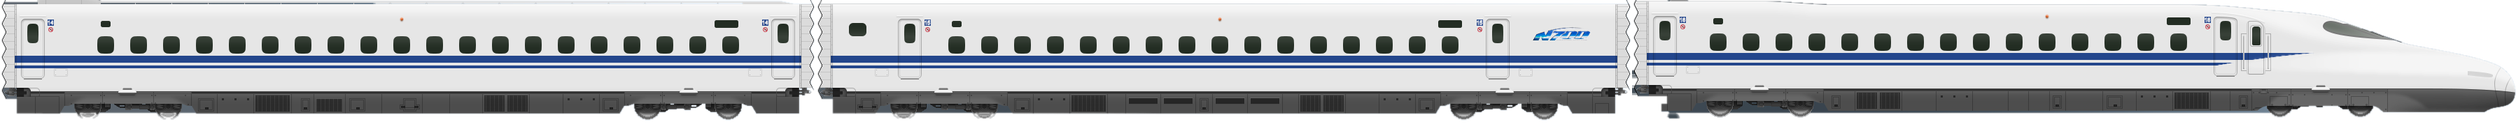
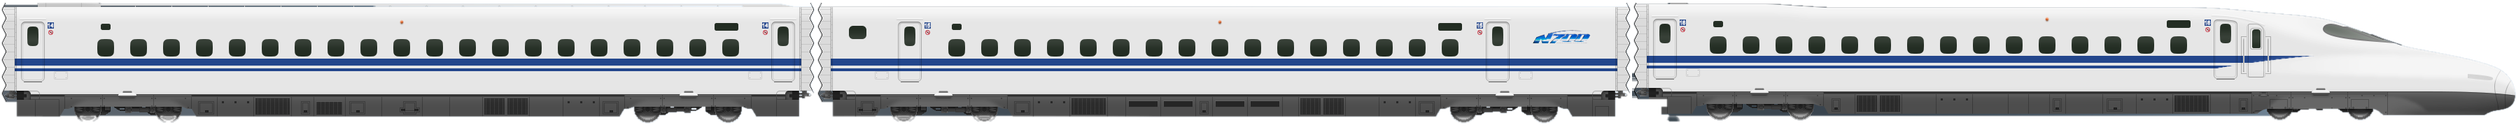
Ảnh xem trước N700: căn toa mũi theo vạch xanh (bản vẽ gốc lệch ~4 px so với toa giữa)

diff --git a/prototype/drive/assets/pv.js b/prototype/drive/assets/pv.js
@@ -1,2 +1,2 @@
 // sinh tự động bởi tools/build_setup_preview.py
-window.PREVIEW = {"n700": {"w": 2516, "h": 124, "ppm": 32.396}, "n700s": {"w": 2503, "h": 107, "ppm": 32.48}, "kamome": {"w": 2507, "h": 119, "ppm": 32.536}, "s800": {"w": 2424, "h": 118, "ppm": 36.226}, "e5": {"w": 2470, "h": 119, "ppm": 32.368}, "e7": {"w": 2422, "h": 123, "ppm": 31.948}, "h5": {"w": 2470, "h": 119, "ppm": 32.368}, "e6": {"w": 2076, "h": 135, "ppm": 31.368}, "e8": {"w": 2074, "h": 135, "ppm": 31.368}, "t4": {"w": 2426, "h": 149, "ppm": 31.444}, "e926": {"w": 2070, "h": 138, "ppm": 26.572}, "e2": {"w": 2384, "h": 112, "ppm": 31.528}};
+window.PREVIEW = {"n700": {"w": 2516, "h": 127, "ppm": 32.396}, "n700s": {"w": 2503, "h": 107, "ppm": 32.48}, "kamome": {"w": 2507, "h": 119, "ppm": 32.536}, "s800": {"w": 2424, "h": 118, "ppm": 36.226}, "e5": {"w": 2470, "h": 119, "ppm": 32.368}, "e7": {"w": 2422, "h": 123, "ppm": 31.948}, "h5": {"w": 2470, "h": 119, "ppm": 32.368}, "e6": {"w": 2076, "h": 135, "ppm": 31.368}, "e8": {"w": 2074, "h": 135, "ppm": 31.368}, "t4": {"w": 2426, "h": 149, "ppm": 31.444}, "e926": {"w": 2070, "h": 138, "ppm": 26.572}, "e2": {"w": 2384, "h": 112, "ppm": 31.528}};

diff --git a/tools/build_setup_preview.py b/tools/build_setup_preview.py
@@ -72,8 +72,14 @@ def n700():
         core = ndi.binary_opening(a > 0.5, structure=np.ones((3, 3)), iterations=7); lab, n = ndi.label(core)
         if n: core = lab == 1 + int(np.argmax(ndi.sum(core, lab, range(1, n + 1)))); a = np.where(ndi.binary_dilation(core, iterations=8), a, 0)
         am = Image.fromarray((a * 255).astype(np.uint8)).filter(ImageFilter.GaussianBlur(0.8))
-        return Image.fromarray(np.dstack([crop.astype(np.uint8), np.asarray(am)]), 'RGBA')
-    imgs = [car(i) for i in (13, 14, 15)]; strip = compose(imgs, 0, 0); w2, h2 = int(strip.width * SCALE), int(strip.height * SCALE)
+        blue = (crop[:, :, 2] - crop[:, :, 0] > 60) & (crop[:, :, 0] < 90) & (a > 0.5); blue[:, :int(w * 0.15)] = False; blue[:, int(w * 0.7):] = False      # vạch xanh dọc thân (bỏ mũi và đầu toa)
+        rows = np.where(blue.sum(axis=1) > 0.3 * w)[0]
+        return Image.fromarray(np.dstack([crop.astype(np.uint8), np.asarray(am)]), 'RGBA'), float(rows.mean())      # hàng của vạch xanh để căn các toa cùng độ cao
+    cs = [car(i) for i in (13, 14, 15)]; print('vạch xanh (hàng):', [round(k, 1) for _, k in cs]); up = int(round(max(k for _, k in cs)))
+    imgs = []
+    for im_, k in cs:      # bản vẽ gốc đặt toa mũi lệch vài px so với các toa giữa: căn lại theo vạch xanh
+        d = up - int(round(k)); t = Image.new('RGBA', (im_.width, im_.height + d), (0, 0, 0, 0)); t.alpha_composite(im_, (0, d)); imgs.append(t)
+    strip = compose(imgs, 0, 0); w2, h2 = int(strip.width * SCALE), int(strip.height * SCALE)
     strip = strip.resize((w2, h2), Image.LANCZOS); strip.save(os.path.join(ROOT, 'pv_n700.png'), optimize=True)
     return {'w': w2, 'h': h2, 'ppm': round(1157 * SCALE / 25.0, 3)}
 
